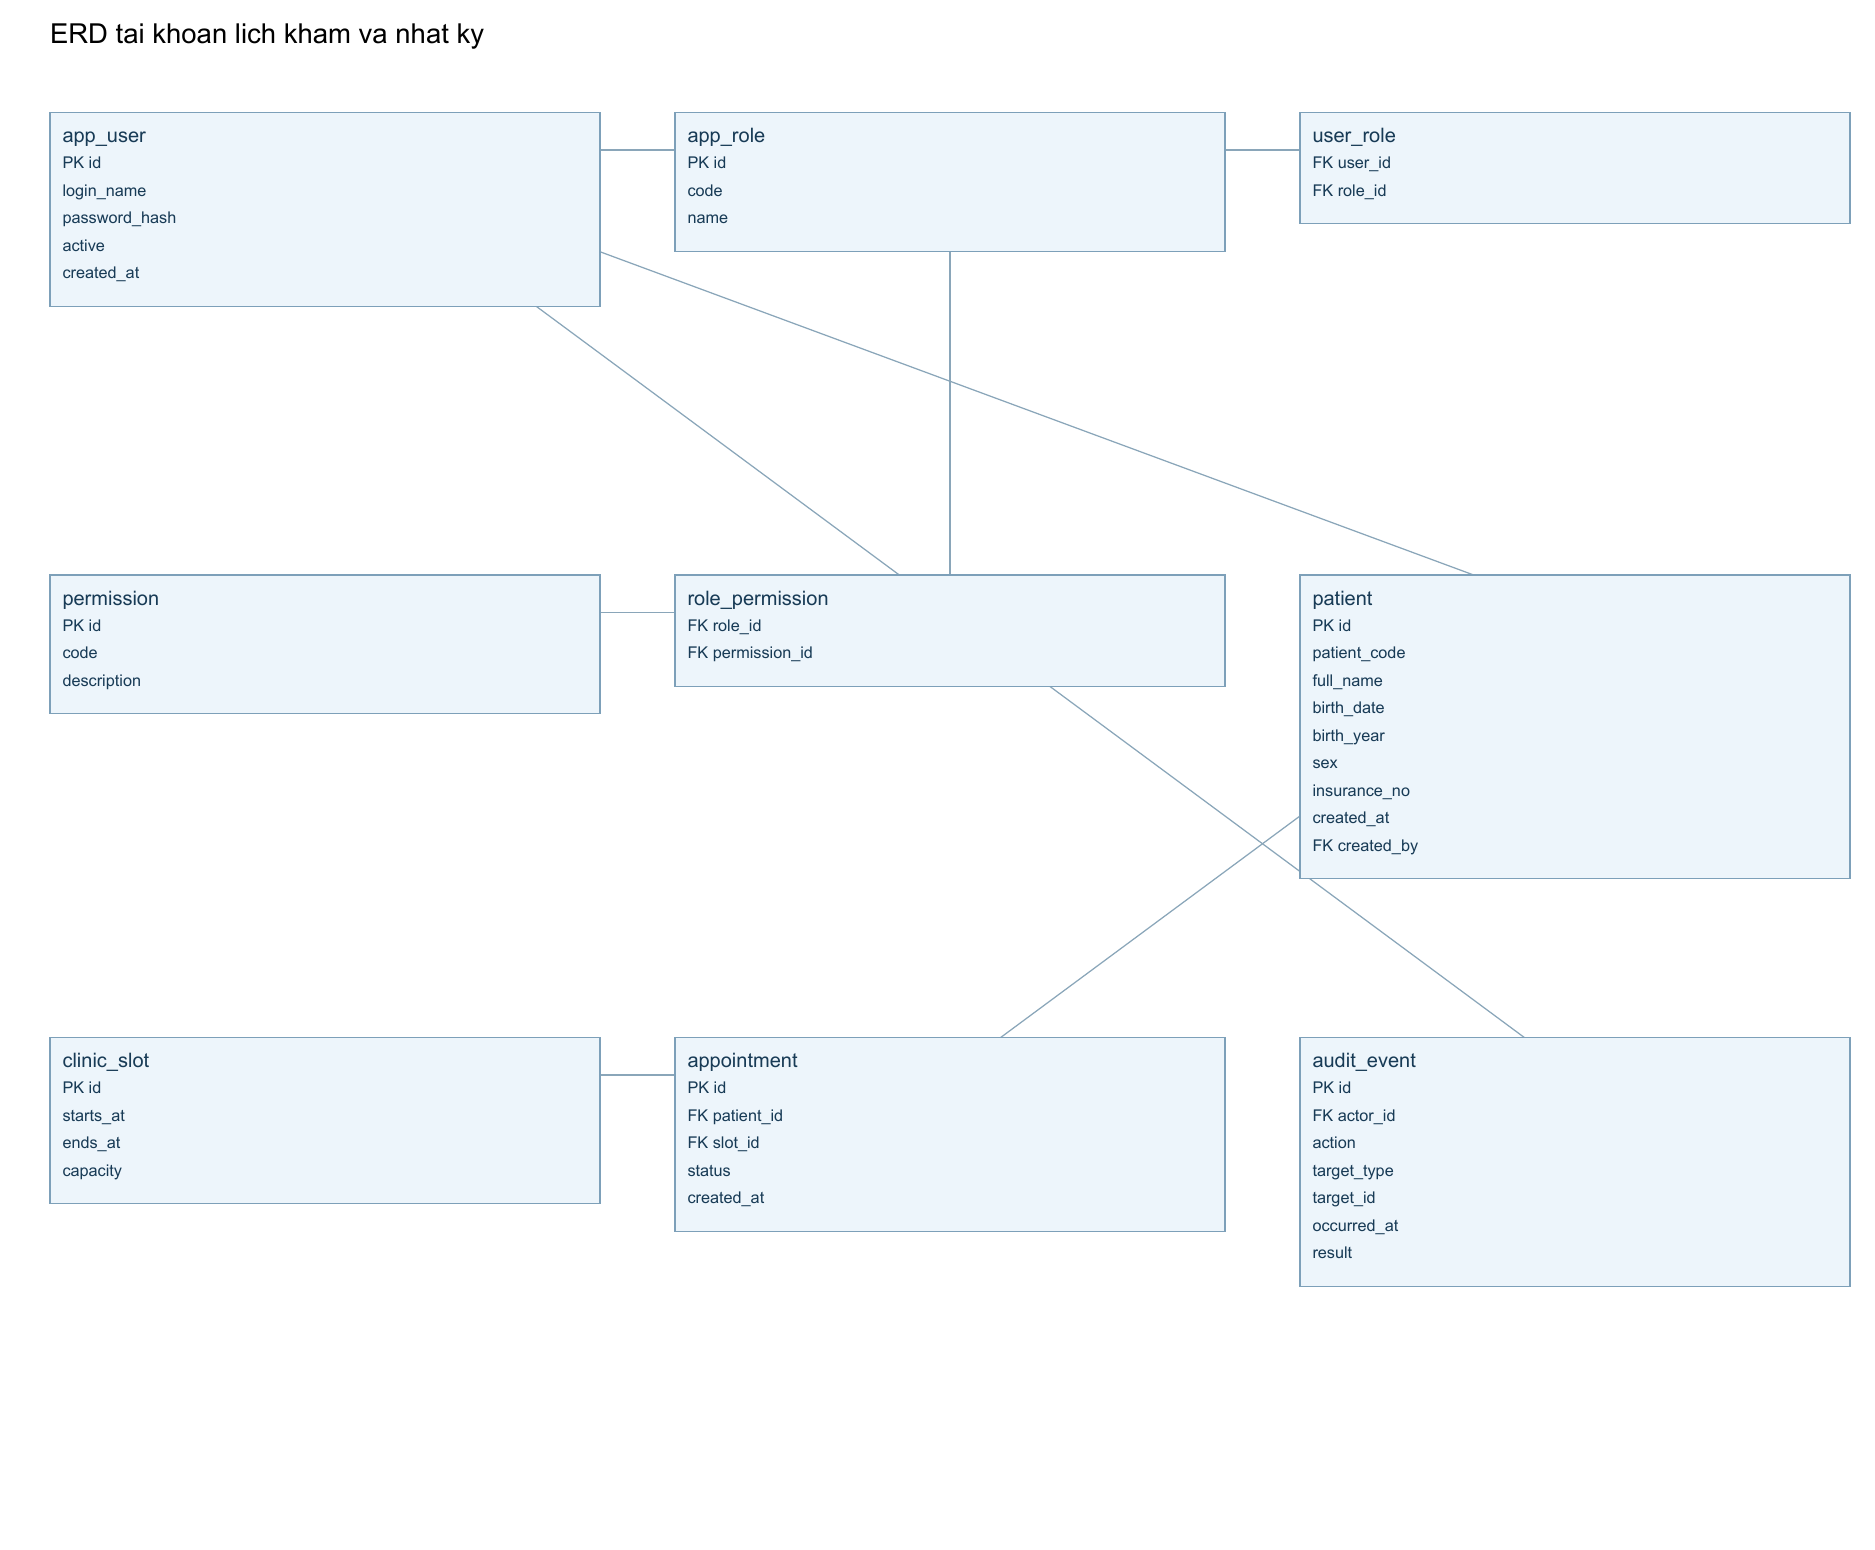
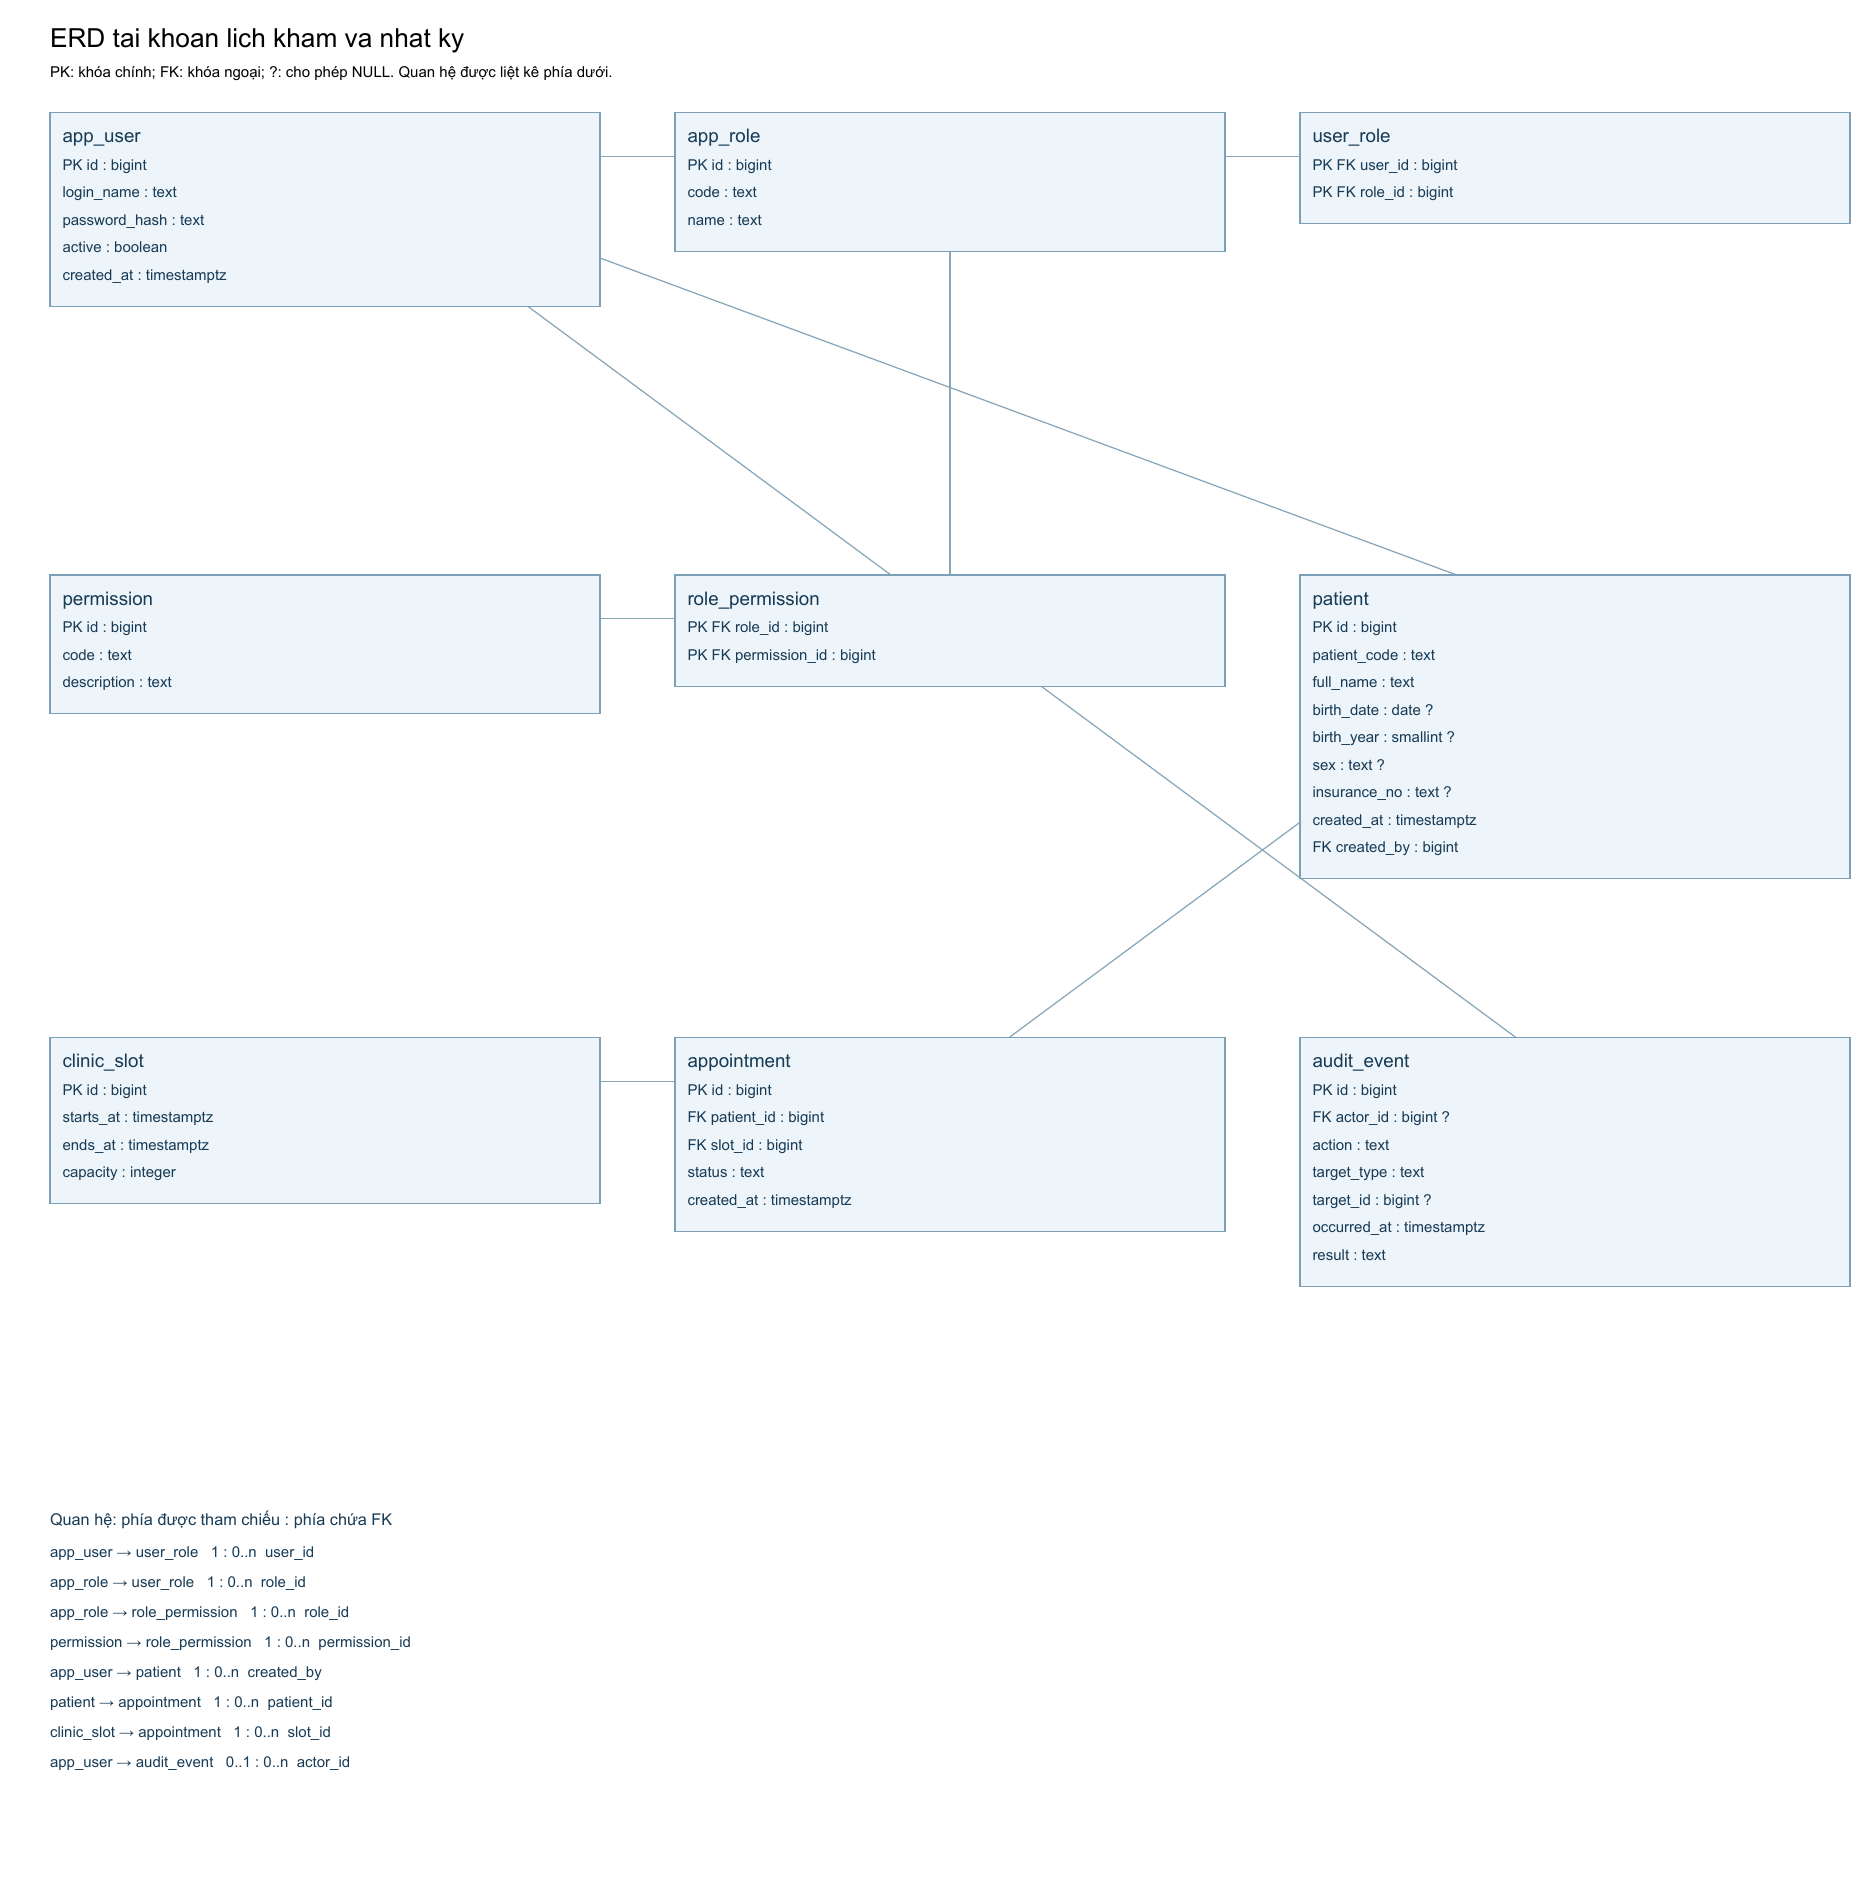
Hoàn thiện thiết kế dữ liệu và mở rộng biểu mẫu theo phiên bản

diff --git a/submissions/suy_tim_nhom27/docs/thiet-ke-du-lieu-MVP.md b/submissions/suy_tim_nhom27/docs/thiet-ke-du-lieu-MVP.md
@@ -1,6 +1,6 @@
 # 5.3 Thiết kế dữ liệu cho MVP
 
-**Trạng thái:** bản dự thảo thiết kế, cần kiểm tra trước khi triển khai. Phạm vi gồm quản lý hồ sơ và lượt khám, tiếp nhận file, tài khoản và quản trị; các chức năng AI và cổng bệnh nhân thuộc hướng mở rộng.
+**Phạm vi duyệt công việc 3.2:** lược đồ quan hệ 25 bảng, danh mục khởi tạo 61 trường lâm sàng và các trường hành chính. Các biến còn lại được quản lý trong bảng truy vết và bổ sung qua phiên bản biểu mẫu sau. Phạm vi gồm quản lý hồ sơ và lượt khám, tiếp nhận file, tài khoản và quản trị; các chức năng AI và cổng bệnh nhân thuộc hướng mở rộng.
 
 ## Các nhóm dữ liệu
 
@@ -18,7 +18,7 @@ Hồ sơ có nhiều lượt khám; mỗi lượt gắn một phiên bản mẫu
 
 ## 3NF và những điều kiện cần tiếp tục kiểm tra
 
-Thiết kế tách tài khoản và vai trò, biểu mẫu và phiên bản, trường và lựa chọn, bản ghi và phiên bản giá trị. Mỗi trường biểu mẫu xác định phiên bản thông qua nhóm trường để giảm dữ liệu lặp. Cần kiểm tra đầy đủ các khóa ứng viên và phụ thuộc hàm theo nghiệp vụ đã chốt trước khi kết luận toàn bộ schema đạt 3NF.
+Thiết kế tách tài khoản và vai trò, biểu mẫu và phiên bản, trường và lựa chọn, bản ghi và phiên bản giá trị. Mỗi trường biểu mẫu xác định phiên bản thông qua nhóm trường để giảm dữ liệu lặp. Phân tích chuẩn hóa dưới đây xác định khóa, phụ thuộc hàm và giả định của lược đồ trong phạm vi hiện tại; không dùng số lượng trường để kết luận 3NF.
 
 Trigger kiểm tra trường thuộc mẫu của lượt, kiểu và lựa chọn, kết quả nhập đúng lượt/trường, bảo vệ mẫu đã phát hành, giữ nguồn 0 ở trạng thái cần kiểm tra, và khóa khung giờ khi nhận lịch. Mặc định kiểm tra 0 được bật cho lần nhập; quyền thay đổi thiết lập và việc bác sĩ xác nhận phải được ứng dụng quản lý. Không coi điều này thay thế xác nhận định danh người bệnh: bước đối chiếu mã nguồn và quyết định của bác sĩ vẫn do ứng dụng thực hiện. Chưa kiểm chứng đầy đủ mọi đường cập nhật dữ liệu liên bảng hoặc các giao dịch đồng thời. Tính bắt buộc theo từng thao tác, chuẩn hóa đơn vị và xử lý lâm sàng chưa được DDL kiểm chứng.
 
@@ -29,6 +29,8 @@ DDL có khóa chính và khóa ngoại, ràng buộc duy nhất, kiểm tra và 
 ## Lưu ý triển khai
 
 DDL dự kiến dùng cho PostgreSQL trên cơ sở dữ liệu trống, chưa là migration cho bản demo cũ và chưa có quy trình chuyển dữ liệu. Các mô tả trạng thái, dữ liệu nhập và quy tắc lâm sàng phải được nhóm xác nhận; không dùng dữ liệu bệnh nhân thật trong bộ tài liệu.
+
+Sao lưu/khôi phục thuộc quy trình vận hành PostgreSQL và kho tệp, không cần tạo một bản sao các bảng nghiệp vụ trong schema. Kiểm thử khôi phục không nằm trong các kết quả SQL đã nêu ở đợt này.
 
 ## Sơ đồ chi tiết
 
@@ -71,8 +73,18 @@ DDL dự kiến dùng cho PostgreSQL trên cơ sở dữ liệu trống, chưa l
 
 Nhóm tài liệu TL01–TL03 đã dùng làm căn cứ phạm vi lâm sàng nhưng chưa có bảng truy vết đầy đủ từng thông tin sang trường biểu mẫu. Các cột nguồn chưa rõ, đơn vị chưa chốt, trường dữ liệu tính toán, thuốc và dữ liệu nhiều lựa chọn cần tiếp tục xác nhận trước khi coi danh mục trường hoàn chỉnh.
 
-Ảnh PNG là bản xem nhanh, có đường nối chưa ghi bội số; mở file draw.io để xem nhãn quan hệ. Các bảng liên kết có khóa chính ghép được nêu chính xác trong từ điển và SQL; ảnh chưa ký hiệu đầy đủ PK ghép.
+Ảnh PNG ghi kiểu, PK/FK và bảng bội số dưới mỗi hình; file draw.io ghi nhãn bội số trên liên kết. Các bảng liên kết có ký hiệu PK/FK trên từng cột của khóa ghép.
 
 ## Căn cứ thiết kế
 
 Đối chiếu sáu nguồn nhóm cung cấp: hướng dẫn suy tim của Bộ Y tế; tài liệu suy tim người cao tuổi; tài liệu SUY TIM; schema tối thiểu năm bệnh; bảng biến bác sĩ AI-CDSS; từ điển dữ liệu suy tim. Các nguồn chuyên môn làm căn cứ chọn trường biểu mẫu và không tự tạo yêu cầu kết nối trực tiếp bệnh viện. Tham khảo [bài giảng kỹ thuật yêu cầu và thiết kế hệ thống](https://fossbk-spec.github.io/ktpmud-book/ch02_yeu_cau_thiet_ke_c4).
+
+## Thêm trường dữ liệu sau khi chốt 3.2
+
+1. Chọn biến từ bảng truy vết; xác định nhãn, mã ổn định, nhóm, kiểu, đơn vị, lựa chọn, quy tắc và nguồn.
+2. Tạo phiên bản nháp mới của mẫu, sao chép các nhóm/trường/lựa chọn cần giữ với ID mới; giữ mã logic của trường cũ. Thêm trường mới vào bản nháp.
+3. Kiểm tra và phát hành bản mới. Lượt mới dùng bản mới; lượt cũ giữ form_version_id cũ. Không tự chuyển dữ liệu giữa mẫu.
+4. Cập nhật cấu hình JSON, seed phiên bản mới, bảng truy vết và kiểm thử. Khi trường chỉ dùng các kiểu hiện có, không cần thêm cột SQL.
+5. Kiểu nghiệp vụ mới hoặc cấu trúc mới (ví dụ bảng thuốc chuyên biệt hơn) có thể cần migration riêng. Không sửa schema rồi chạy lại trên CSDL có dữ liệu.
+
+Đã chạy ca thêm trường ở bản mới, ghi giá trị cho lượt mới và xác minh mẫu/giá trị lượt cũ còn nguyên. Cách này cho phép chốt nền dữ liệu trước khi hoàn thiện toàn bộ danh mục lâm sàng. Không gọi danh mục 61 trường là đầy đủ toàn bộ dữ liệu suy tim.

diff --git a/submissions/suy_tim_nhom27/docs/tu-dien-du-lieu-MVP.md b/submissions/suy_tim_nhom27/docs/tu-dien-du-lieu-MVP.md
@@ -270,15 +270,13 @@ Ràng buộc của bảng: không có ràng buộc bổ sung.
 | id | Khóa phần dữ liệu | `bigint GENERATED ALWAYS AS IDENTITY PRIMARY KEY` |
 | batch_id | Lần nhập chứa phần này | `bigint NOT NULL REFERENCES import_batch(id)` |
 | source_location | Vị trí nguồn | `text NOT NULL` |
-| source_column | Tên cột nguồn | `text` |
 | mapping_rule_id | Thuộc tính mapping_rule_id | `bigint REFERENCES mapping_rule(id)` |
 | raw_value | Giá trị nguyên dạng | `text` |
 | encounter_id | Lượt khám | `bigint REFERENCES encounter(id)` |
-| field_id | Trường biểu mẫu | `bigint REFERENCES form_field(id)` |
 | status | Hợp lệ hoặc chờ hoặc lỗi | `text NOT NULL CHECK(status IN ('pending','valid','review','applied','error'))` |
 | message | Lý do và cảnh báo | `text` |
 
-Ràng buộc của bảng: `UNIQUE(batch_id,source_location)`; `CHECK(status NOT IN ('valid','applied') OR (source_column IS NOT NULL AND mapping_rule_id IS NOT NULL AND encounter_id IS NOT NULL AND field_id IS NOT NULL))`
+Ràng buộc của bảng: `UNIQUE(batch_id,source_location)`; `CHECK(status NOT IN ('valid','applied') OR (mapping_rule_id IS NOT NULL AND encounter_id IS NOT NULL))`
 
 Chỉ mục bổ sung: `ix_import_item_batch_status (batch_id,status)`.
 
@@ -335,4 +333,18 @@ Ràng buộc của bảng: không có ràng buộc bổ sung.
 
 Chỉ mục bổ sung: `ix_audit_actor_time (actor_id,occurred_at)`.
 
-Khóa chính và UNIQUE cũng tạo chỉ mục duy nhất trong PostgreSQL. Một số quy tắc liên bảng cần được kiểm tra trong ứng dụng hoặc bổ sung ràng buộc: trường thuộc phiên bản mẫu của lượt khám, dữ liệu nhập đã đối chiếu đúng người và lượt, và sức chứa khung giờ.
+Khóa chính và UNIQUE tạo chỉ mục duy nhất trong PostgreSQL. Các điều kiện liên bảng sau được thực hiện bằng trigger, không phải CHECK tham chiếu bảng khác:
+
+| Quy tắc | Cơ chế trong schema |
+| --- | --- |
+| Trường và lượt cùng phiên bản mẫu | observation_field_version; encounter_form_valid |
+| Kiểu giá trị và lựa chọn đúng trường | observation_value_valid; CHECK một ô giá trị |
+| Lịch sử giá trị không bị ghi đè | observation_version_immutable; observation_identity_locked |
+| Dữ liệu nguồn và giá trị áp dụng cùng lượt/trường | import_application_match; import_mapping_valid |
+| Nguồn 0 phải chờ rà soát khi chính sách được bật | import_zero_review |
+| Không đổi phần nguồn sau khi ghi | import_item_locked |
+| Không sửa cấu hình ánh xạ đã dùng | used_mapping_profile; used_mapping_rule |
+| Không sửa mẫu đã phát hành hoặc dùng | protect_version; protect_section; protect_field; protect_option |
+| Lịch hẹn không vượt sức chứa | appointment_capacity; slot_capacity_valid; khóa hàng khung giờ trong giao dịch |
+
+Ứng dụng chịu trách nhiệm phân quyền, xác minh mã nguồn đúng người bệnh, đọc file, trình bày xem trước, kiểm tra bắt buộc theo thao tác và ghi nhật ký. Các quy tắc chuyển đơn vị, suy diễn lâm sàng và danh mục chưa chốt không được tuyên bố là đã được DDL thực thi. Các phép kiểm thử đã chạy được nêu riêng tại [kết quả kiểm thử](kiem-thu-co-so-du-lieu-MVP.md).

diff --git a/submissions/suy_tim_nhom27/docs/kiem-thu-co-so-du-lieu-MVP.md b/submissions/suy_tim_nhom27/docs/kiem-thu-co-so-du-lieu-MVP.md
@@ -29,3 +29,7 @@ Các file test SQL tự ROLLBACK dữ liệu giả lập. File `test-dong-thoi.p
 | Chạy lại schema trên CSDL đã có bảng | Bị từ chối tại `app_user already exists` như thiết kế; phải tạo CSDL thử trống mới để chạy lại. Seed cũng không phải script cập nhật dữ liệu đã có. |
 
 Kiểm thử dùng dữ liệu giả lập. Kết quả không xác nhận an toàn lâm sàng, toàn bộ phụ thuộc hàm hoặc tất cả tình huống cạnh tranh. Chưa kiểm thử khôi phục dữ liệu, tải file thực tế hoặc tích hợp với web. Schema khởi tạo **không phải migration** từ demo và chưa có quy trình chuyển dữ liệu cũ.
+
+## Đợt chốt danh mục hiện tại
+
+Đã chạy lại schema sau khi bỏ field_id/source_column lặp khỏi import_item trên CSDL thử sạch schema_32_final_01 (PostgreSQL 16.15). Schema, seed, hai file SQL test và hai ca đồng thời đều chạy thành công. Đã chạy thêm ca tạo phiên bản mẫu mới, thêm trường và ghi dữ liệu mới, xác minh lượt cũ giữ nguyên mẫu và giá trị. Cấu hình ánh xạ đã được dùng được chặn sửa/xóa, phải tạo phiên bản mới; ca sửa quy tắc đã dùng bị từ chối như mong đợi.
